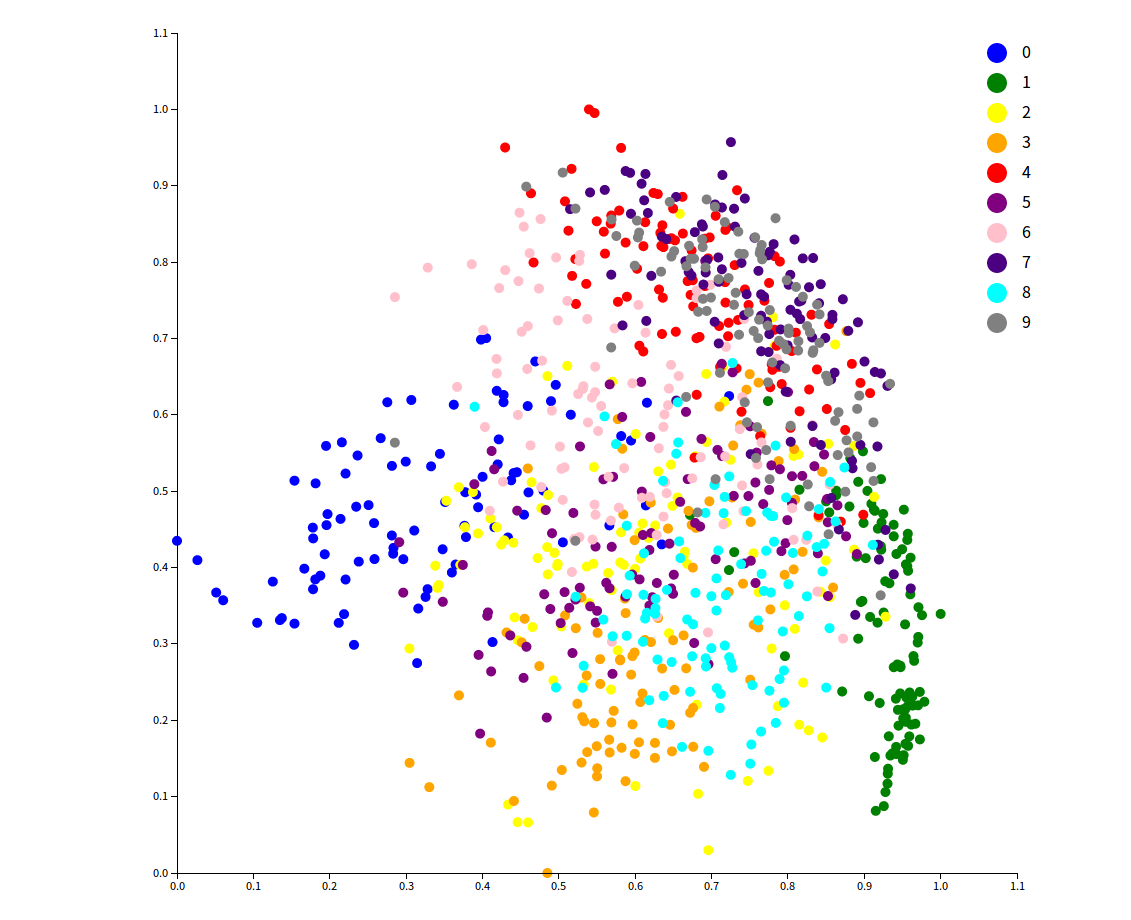
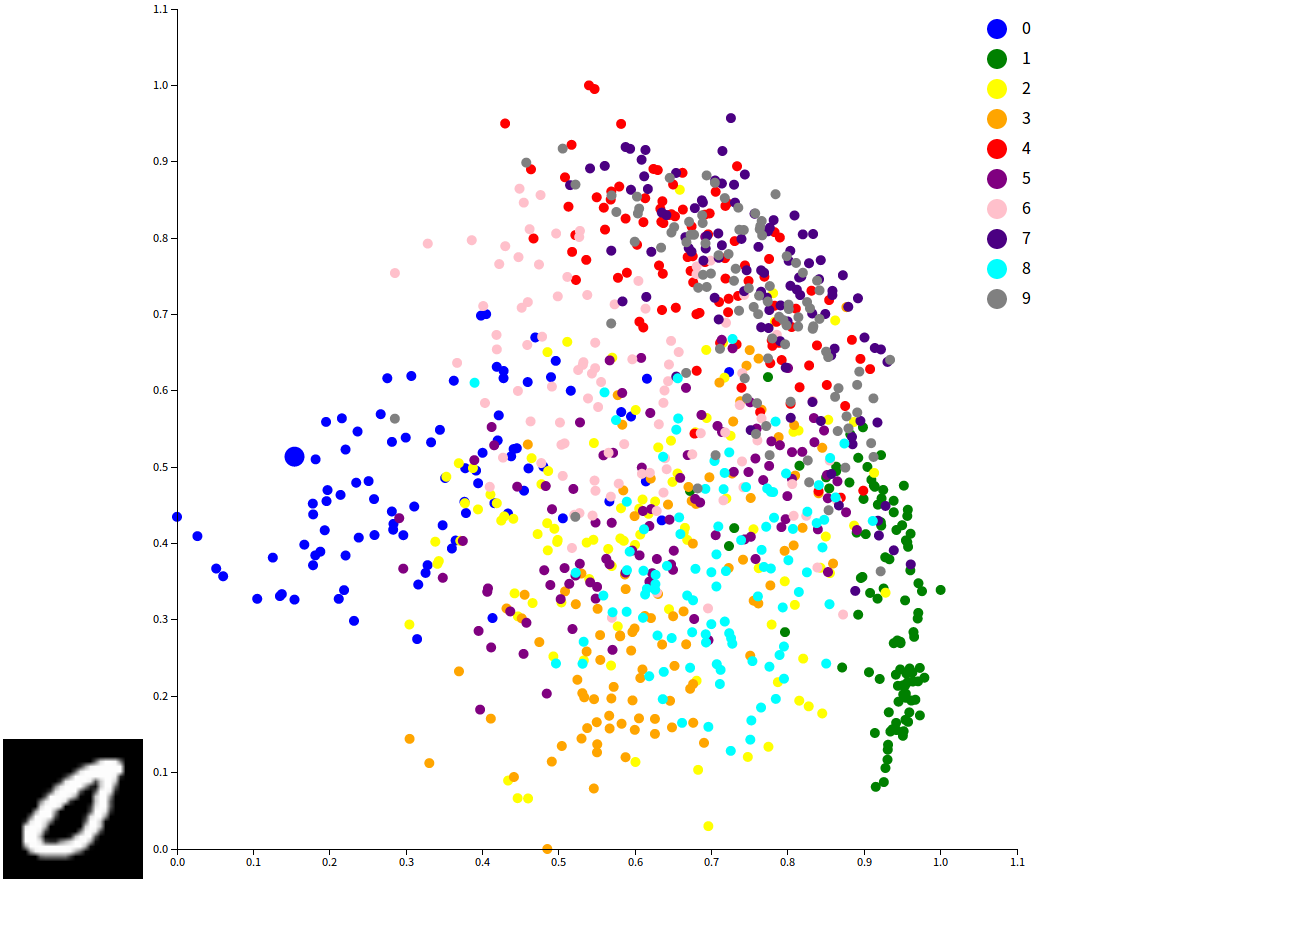
update pca.png

diff --git a/README.md b/README.md
@@ -30,8 +30,9 @@ The visualization and interaction is done by `d3.js`.
 
 ## Instructions
 
-- run `pca.py` and generate `data.json`
-- run `array_to_image.py` and generate images in `imgs`
-- open `index.html` in browser (perhaps requires localhost HTTP server)
+- Run `pca.py` and generate `data.json`
+- Run `array_to_image.py` and generate images in `imgs`
+- Open `index.html` in browser (perhaps requires localhost HTTP server)
+- The circle becomes larger when the mouse passes over, and the image corresponding to the circile appears on the left-bottom
 
 ![visualization](pca.png)
